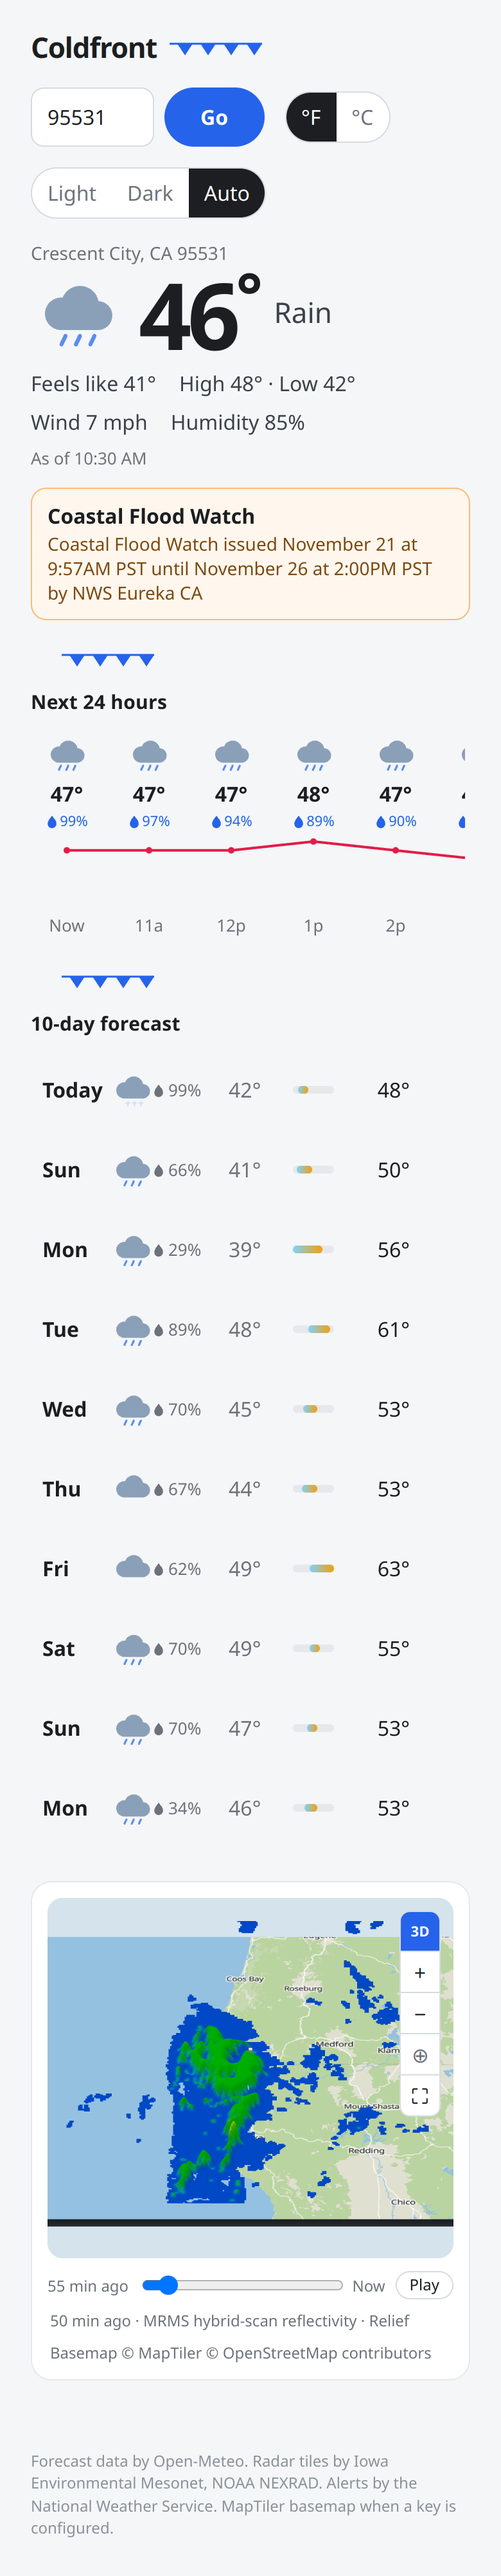
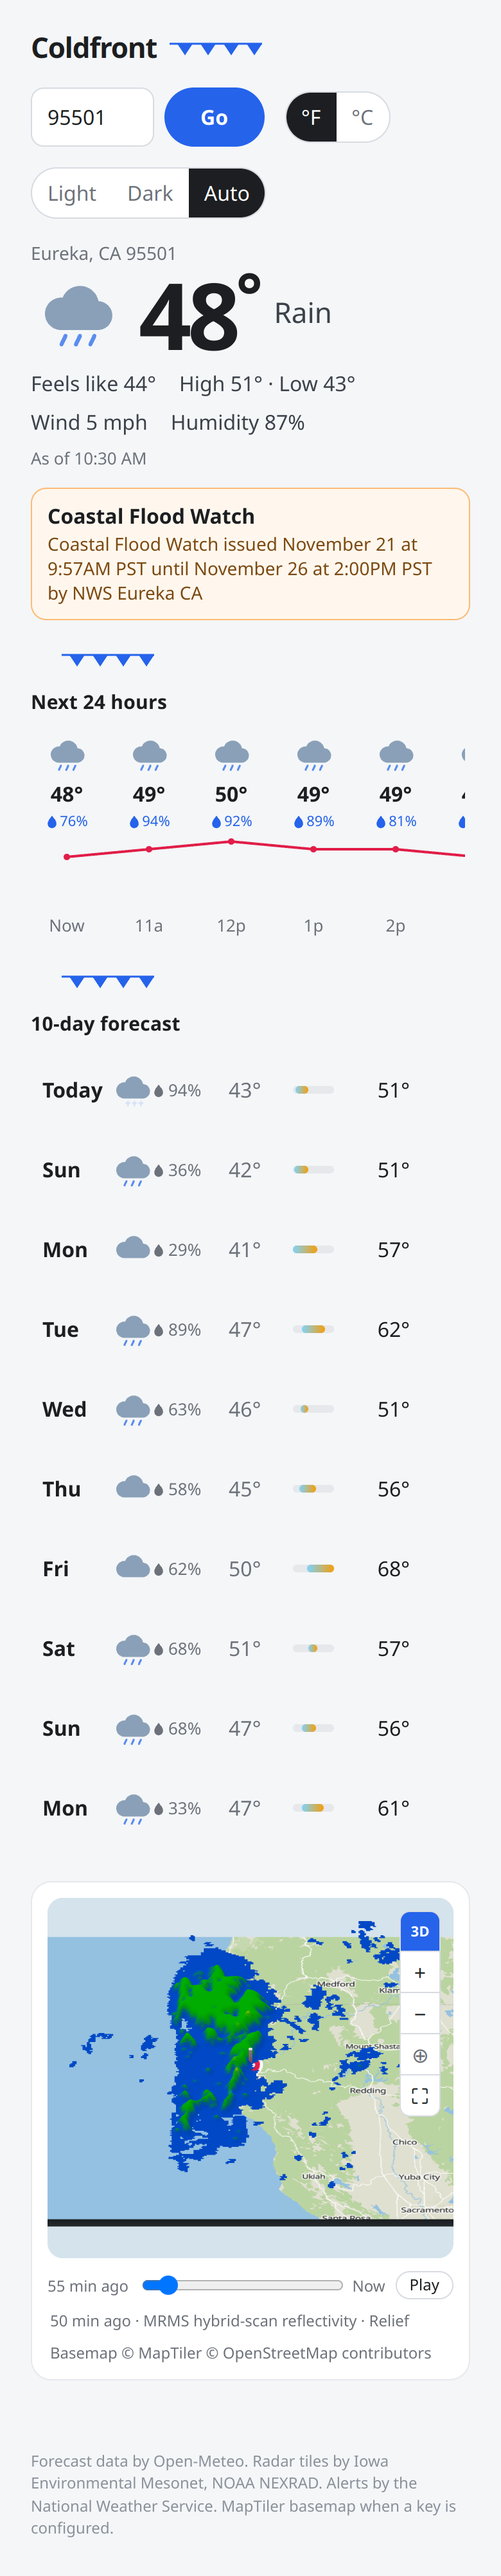
docs: align README shots on Eureka 95501, add COSMIC applet
Recapture web 3D Relief screenshots at ZIP 95501 to match panel applet
captures (Radar, Current, Hourly, Alerts) copied from the bot store.

diff --git a/README.md b/README.md
@@ -8,11 +8,23 @@ The [web app](https://coldfront.fyi) shows current conditions, the next 24 hours
 
 ## Screenshots
 
-Live site at [coldfront.fyi](https://coldfront.fyi), captured during heavy rain in **Crescent City, CA** (ZIP **95531**) with active coastal flood alerts. Radar is in **3D Relief** view (in-app **2D**/**3D** toggle) with a pitched camera angle so the terrain and echo volume read clearly.
+Live [coldfront.fyi](https://coldfront.fyi) and COSMIC applet shots below use **Eureka, CA** (ZIP **95501**) during coastal rain and an NWS **Coastal Flood Watch**. On the web, radar is in **3D Relief** (the **2D**/**3D** toggle) with a pitched camera after tiles load.
+
+### Web
 
 | Desktop (1440×900) | Mobile (390×844, 2×) |
 | --- | --- |
-| ![Coldfront on desktop — Crescent City, CA (95531), rain, flood alerts, and 3D Relief radar](docs/screenshots/web-desktop.png) | ![Coldfront on mobile — Crescent City, CA (95531), rain, flood alerts, and 3D Relief radar](docs/screenshots/web-mobile.png) |
+| ![Coldfront web on desktop — Eureka, CA (95501), rain, flood watch, 3D Relief radar](docs/screenshots/web-desktop.png) | ![Coldfront web on mobile — Eureka, CA (95501), rain, flood watch, 3D Relief radar](docs/screenshots/web-mobile.png) |
+
+### COSMIC applet
+
+Panel popup on the same ZIP — **Radar** tab with reflectivity over the coast, plus the other main tabs.
+
+![COSMIC applet — Eureka, CA (95501), Radar tab during rain](docs/screenshots/applet-radar.png)
+
+| Current | Hourly | Alerts |
+| --- | --- | --- |
+| ![COSMIC applet — Eureka, CA (95501), Current tab](docs/screenshots/applet-current.png) | ![COSMIC applet — Eureka, CA (95501), Hourly tab](docs/screenshots/applet-hourly.png) | ![COSMIC applet — Eureka, CA (95501), Alerts tab](docs/screenshots/applet-alerts.png) |
 
 The two apps do not share a binary. They follow the same display rules. [Architecture](docs/architecture.md) is the design record; [reference](docs/reference.md) holds the field and route tables. [Contributing](CONTRIBUTING.md) covers local setup, tests, deploy, and release.
 
